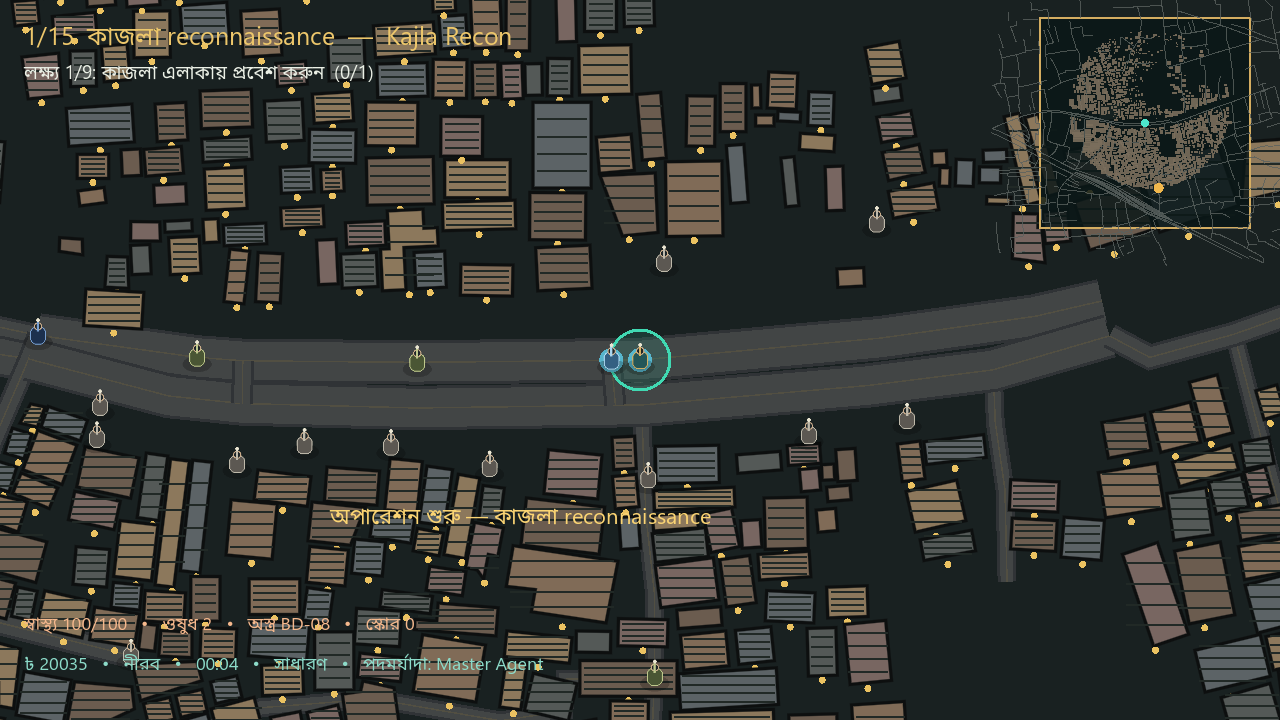
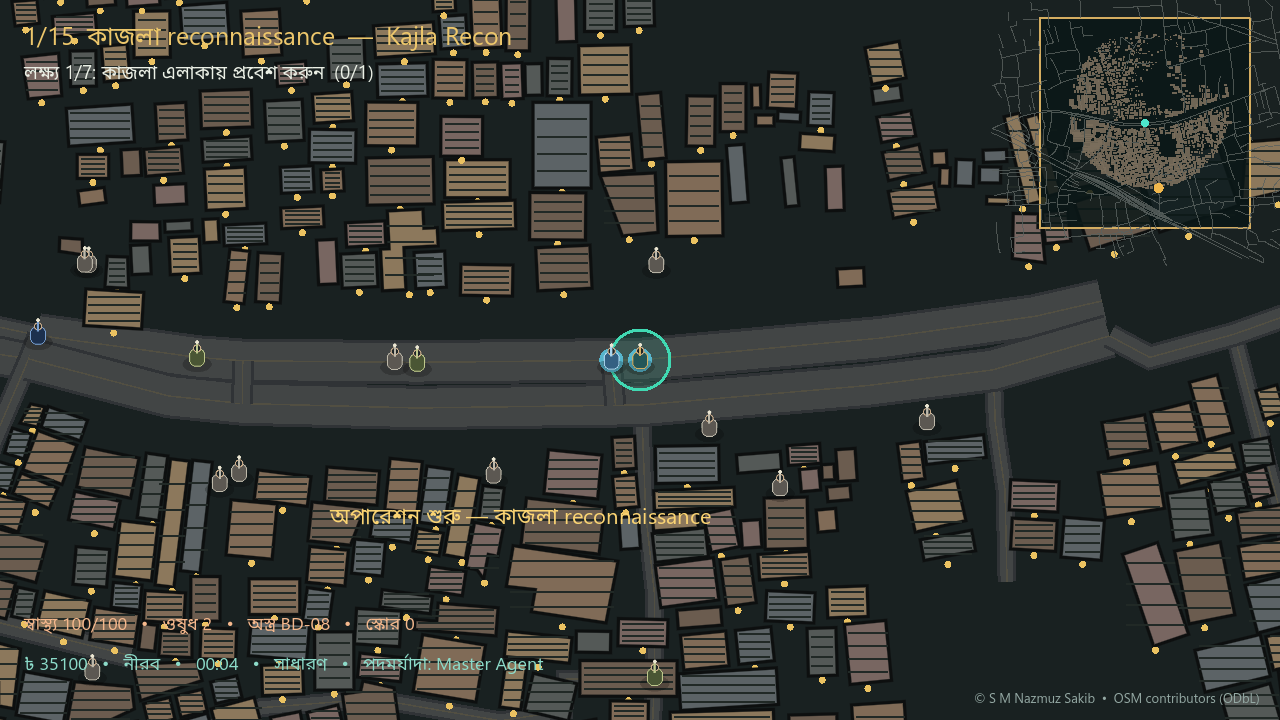
Review cycle 3: varied mission recipes, visible interiors, on-screen credit, robust exit search

diff --git a/README.md b/README.md
@@ -15,7 +15,7 @@ Download `IGI3_2D.exe` from the [Releases page](https://github.com/Sakibpedia/ig
 ## What is in the game
 
 - **1,500 real OSM building footprints** drawn as top-down polygons with street doors, interior floors and roof access. The collision system uses a spatial grid so hundreds of actors stay responsive.
-- **15 chained missions** with 7–10 objectives each: reach, photograph, collect, wiretap, sabotage, eliminate a commander, disable alarms, infiltrate, survive a hold, BCS gates and timed extraction.
+- **15 chained missions** with 7–9 objectives each in three different mission families (recon/wiretap/sabotage early, elimination/alarm-disabling later): reach, photograph, collect, wiretap, sabotage, eliminate a commander, disable alarms, infiltrate, survive a hold, BCS gates and timed extraction.
 - **Safe shops** (pharmacy, clinic, arms dealer, grocery, general store, mobile shop, tea stall and hardware store) selling ammo, medkits, bandages and permanent +25 HP upgrades; enemy loot can be sold. Wallet and upgrades persist between missions.
 - **165 neutral actors** in squads: military, police, air force (a death calls an airstrike), naval commandos, bomber commandos and a white-clad civilian protector. They never fire first but retaliate as a group.
 - **200 civilians** and **18 knife gangs** roam the lanes; harming civilians costs points and raises the alarm.
@@ -32,9 +32,13 @@ Captured from the running game (not concept art):
 |---|---|
 | ![Mission select](docs/images/gameplay-menu.png) | ![Mission gameplay](docs/images/gameplay-mission.png) |
 
-| Shop panel | BCS gate | Mission result |
+| Interior / roof view | Shop panel | BCS gate |
 |---|---|---|
-| ![Shop](docs/images/gameplay-shop.png) | ![BCS gate](docs/images/gameplay-gate.png) | ![Result](docs/images/gameplay-result.png) |
+| ![Interior](docs/images/gameplay-interior.png) | ![Shop](docs/images/gameplay-shop.png) | ![BCS gate](docs/images/gameplay-gate.png) |
+
+| Mission result | | |
+|---|---|---|
+| ![Result](docs/images/gameplay-result.png) | | |
 
 Regenerate them with `SHOT_MODE=menu|mission|shop|gate|result` and
 `tools/test/ScreenshotTest.tscn`.

diff --git a/docs/REVIEW_2D.md b/docs/REVIEW_2D.md
@@ -29,11 +29,26 @@ smoke tests. Findings are listed with their fixes.
 - City and save suites still PASS.
 - Menu boots cleanly; exported Windows build launches.
 
-## Honest limitations (not fixed in this pass)
+## Cycle 3 (after deeper playthroughs and screenshots)
 
-- **Mission variety:** all 15 missions use the same objective template
-  (7–10 objectives from the same type pool). Titles, reward, zone, alarm limit
-  and parachute flag differ, but there are no bespoke map layouts per mission.
+Another full pass found and fixed:
+
+| Severity | Issue | Fix |
+|---|---|---|
+| High | All 15 missions used the same 9-objective template | Three early and three late recipes now give 7–9 objectives with different type mixes per mission |
+| Medium | Completing `infiltrate` could drop the hero inside a neighbouring building in the dense OSM city | Ring scan around the door plus road-point fallback finds a truly walkable exit |
+| Medium | Interior state had no visual representation | `MarkerLayer` now draws a room with floor bands, stair marker and green exit door |
+| Low | Credit was only in the README | `© S M Nazmuz Sakib • OSM contributors (ODbL)` now appears in the menu and the in-game HUD |
+
+A parse error introduced by the exit-search patch (`var p :=` inferred from a
+Variant) was caught immediately by the deep test and corrected with explicit
+`Vector2` typing.
+
+## Honest limitations (still open)
+
+- **Mission variety:** missions now differ in objective recipes, but they still
+  share one generated map layout and reuse the same target points. Bespoke
+  per-mission map layouts would be the next large upgrade.
 - **Interiors are abstract:** entering a building teleports the hero to an
   interior/roof state; there is no full multi-floor navigation mesh like the 3D game.
 - **AI is lightweight:** hitscan shooting, simple chase/wander and alert flags;

diff --git a/docs/VERIFICATION_2D.md b/docs/VERIFICATION_2D.md
@@ -51,8 +51,12 @@ aggression registration), an air-force airstrike call, a shop purchase and heal,
 walkable spawn, 9 visible vehicles, and all 9 objectives per mission through
 interaction/proximity/kill hooks.
 
-`[PLAY2D] ALL 15 MISSIONS PASS` — M01 through M15, 393–407 actors each.
-See [REVIEW_2D.md](REVIEW_2D.md) for the 11 issues found and fixed.
+`[PLAY2D] ALL 15 MISSIONS PASS` — M01 through M15, 393–407 actors each,
+7–9 objectives depending on the mission recipe. See
+[REVIEW_2D.md](REVIEW_2D.md) for all issues found and fixed across three cycles.
+
+Six real gameplay screenshots were captured from the running game (menu,
+mission, interior, shop, BCS gate, result) using `tools/test/ScreenshotTest.tscn`.
 
 ## Menu, export and launch
 
